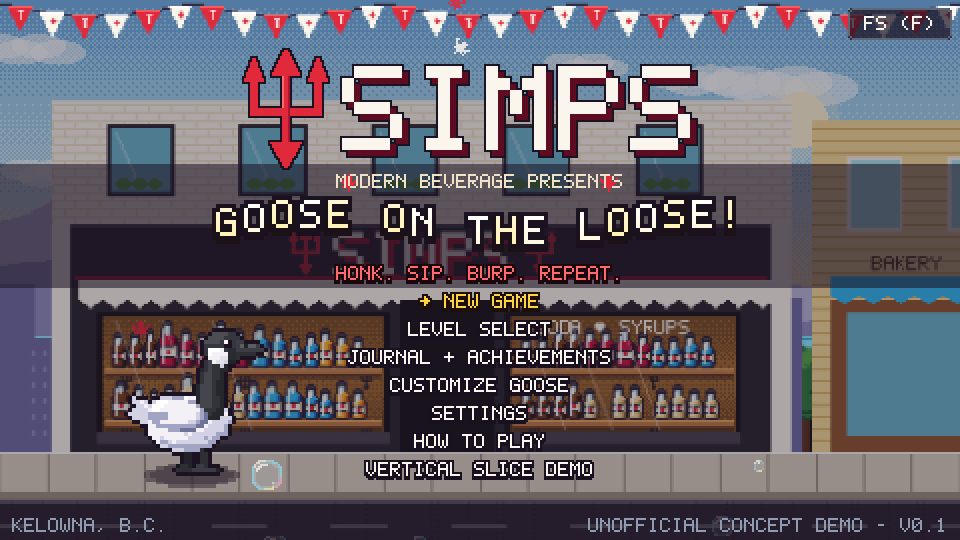
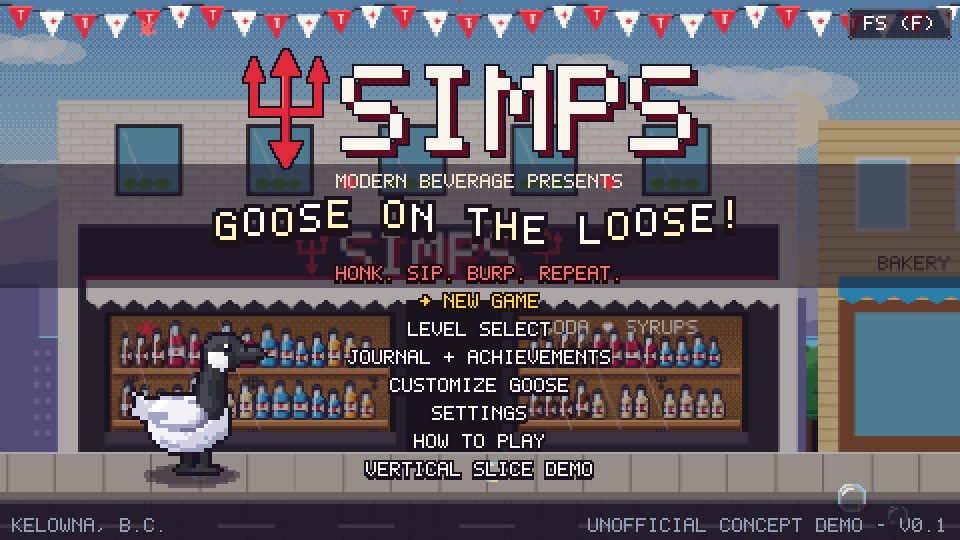
Wide phones: fill edge to edge (up to ~3.2:1), size to Safari's visible area, HUD + buttons pinned to the screen edges
- Width cap raised to 880; game sized from visualViewport so Safari toolbars never hide the HUD
- Screen-fixed skies stay behind the level and stretch to the full width (fixes sky drawn over the waterfront / Soda Dimension on wide phones)
- HUD scene spans the screen: hearts/score left, pause/sound/FS right, d-pad left edge, action buttons right edge

Claude-Session: https://claude.ai/code/session_019Ne5GHyCBQvH5tGTV4PYB6

diff --git a/simps-goose/src/scenes/UIScene.ts b/simps-goose/src/scenes/UIScene.ts
@@ -14,6 +14,7 @@ import { POWERS, PowerId } from '../data/recipes';
 import { BURPS, BurpId } from '../data/coffee';
 import { GS } from '../systems/gamestate';
 import { portraitPad } from '../systems/touchpad';
+import { VIEW } from '../systems/view';
 import { toggleFullscreen } from '../systems/fullscreen';
 
 interface MenuItem { label: () => string; act: (dir: number) => void; t?: Phaser.GameObjects.BitmapText }
@@ -36,7 +37,7 @@ export class UIScene extends Phaser.Scene {
   bossBar: Phaser.GameObjects.Container | null = null; bossFill!: Phaser.GameObjects.Graphics;
   clearCard: Phaser.GameObjects.Container | null = null;
 
-  abil: Phaser.GameObjects.Image[] = [];
+  abil: Phaser.GameObjects.Image[] = []; hudR!: Phaser.GameObjects.Container;
   constructor() { super('UI'); }
   /** Owner abilities row: Power Honk, Double Bubble, Super Burp. */
   setAbilities(o: { ph: boolean; db: boolean; sb: boolean }) { [o.ph, o.db, o.sb].forEach((v, i) => { const a = this.abil[i]; if (a && a.visible !== v) { a.setVisible(v); if (v) this.pulse(a); } }); }
@@ -48,6 +49,8 @@ export class UIScene extends Phaser.Scene {
     this.buildPicker();
     this.touchOn = this.registry.get('touch') === true;
     if (this.touchOn) this.buildTouch();
+    this.applyEdges();
+    const onView = () => this.applyEdges(); this.game.events.on('view:changed', onView); this.events.once('shutdown', () => this.game.events.off('view:changed', onView));
     const ev = this.game.events;
     const on = (n: string, f: (...a: never[]) => void) => { ev.on(n, f, this); this.events.once('shutdown', () => ev.off(n, f, this)); };
     on('hud:reset', ((o: { dropTotal: number; leafTotal?: number; level?: string }) => { this.dropTotal = o.dropTotal; this.leafTotal = o.leafTotal ?? 3; this.resetHud(); if (o.level) this.levelBanner(o.level); }) as never);
@@ -78,6 +81,7 @@ export class UIScene extends Phaser.Scene {
   // ------------------------------------------------------------ HUD
   buildHud() {
     this.hud = this.add.container(0, 0).setDepth(10);
+    this.hudR = this.add.container(0, 0).setDepth(10); // right-edge HUD (pause / sound / fullscreen)
     const g = this.add.graphics();
     g.fillStyle(C.ink, 0.72).fillRoundedRect(4, 4, 150, 20, 4).lineStyle(1, C.red1, 1).strokeRoundedRect(4.5, 4.5, 149, 19, 4);
     this.hud.add(g);
@@ -106,7 +110,7 @@ export class UIScene extends Phaser.Scene {
       const b = this.add.graphics().fillStyle(C.ink, 0.72).fillRoundedRect(452, y, 24, 16, 3).lineStyle(1, C.st3).strokeRoundedRect(452.5, y + 0.5, 23, 15, 3);
       const t = txt(this, 464, y + 3, label, { align: 'center', outline: false, color: C.wht });
       const z = this.add.zone(452, y, 24, 16).setOrigin(0).setInteractive({ useHandCursor: true }).on(ev, (_p: unknown, _x: unknown, _y: unknown, e: Phaser.Types.Input.EventData) => { e.stopPropagation(); f(); });
-      this.hud.add([b, t, z]);
+      this.hudR.add([b, t, z]);
       return t;
     };
     btn(4, 'II', () => this.openPause());
@@ -343,11 +347,19 @@ export class UIScene extends Phaser.Scene {
     for (const [a, label, r] of defs) this.touchBtns.push({ a, label, r, x: 0, y: 0, down: false });
     this.layoutTouch();
   }
+  /** Pin the HUD to the screen edges (wide phones): left block left, right block right. */
+  applyEdges() {
+    const ox = VIEW.ox;
+    this.hud.x = -ox; this.hudR.x = ox; this.slot.x = 424 + ox;
+    this.layoutTouch();
+  }
   layoutTouch() {
     if (!this.touchOn) return;
     const pos: Record<string, [number, number]> = { left: [34, 236], right: [86, 236], jump: [442, 232], honk: [394, 246], ability: [446, 182], interact: [398, 200] };
+    const ox = VIEW.ox; // wide screens: d-pad hugs the left edge, action buttons the right edge
     for (const b of this.touchBtns) {
       [b.x, b.y] = pos[b.a];
+      b.x += b.a === 'left' || b.a === 'right' ? -ox : ox;
       b.g?.destroy();
       b.g = this.add.graphics().setDepth(5);
       const t = txt(this, b.x, b.y - 4, b.label, { align: 'center', outline: false, color: C.wht });

diff --git a/simps-goose/src/systems/view.ts b/simps-goose/src/systems/view.ts
@@ -11,15 +11,19 @@ import Phaser from 'phaser';
 export const BASE_W = 480, BASE_H = 270;
 export const VIEW = { w: BASE_W, ox: 0 };
 
+/** The area the browser really shows (Safari's toolbars excluded). */
+export function visibleSize() { const vv = window.visualViewport; return { w: vv ? vv.width : window.innerWidth, h: vv ? vv.height : window.innerHeight, top: vv ? vv.offsetTop : 0, left: vv ? vv.offsetLeft : 0 }; }
 export function desiredWidth(touch: boolean): number {
-  const W = window.innerWidth, H = window.innerHeight;
+  const { w: W, h: H } = visibleSize();
   if (!touch || H >= W) return BASE_W;
-  return Math.max(BASE_W, Math.min(640, Math.round((BASE_H * W) / H)));
+  return Math.max(BASE_W, Math.min(880, Math.round((BASE_H * W) / H)));
 }
 function setW(w: number) { VIEW.w = w; VIEW.ox = Math.round((w - BASE_W) / 2); }
 
 /** Non-gameplay scenes (menus, cutscenes, overlays): keep their 480-wide layout, centred. */
 export function fitFixed(scene: Phaser.Scene) {
+  // the HUD scene spans the whole screen (its layout stays centred) so it can pin items to the edges
+  if (scene.sys.settings.key === 'UI') { scene.cameras.main.setViewport(0, 0, VIEW.w, BASE_H).setScroll(-VIEW.ox, 0); return; }
   for (const cam of scene.cameras.cameras) cam.setViewport(VIEW.ox, 0, BASE_W, BASE_H);
 }
 
@@ -29,6 +33,12 @@ export function fitLevel(scene: ViewLevel) {
   const main = scene.cameras.main;
   const vw = Math.min(VIEW.w, Math.max(BASE_W, scene.worldW || BASE_W));
   main.setViewport(Math.round((VIEW.w - vw) / 2), 0, vw, BASE_H);
+  // screen-fixed backdrops (skies, distant hills) were drawn 480 wide: stretch them to the view
+  for (const o of scene.children.list as (Phaser.GameObjects.GameObject & { scrollFactorX?: number; depth?: number; width?: number; displayHeight?: number })[]) {
+    if (o.scrollFactorX !== 0 || (o.depth ?? 0) >= 80) continue;
+    if (o instanceof Phaser.GameObjects.TileSprite && o.width >= 470 && o.width <= 490 + 400) o.setSize(vw, o.height);
+    else if (o instanceof Phaser.GameObjects.Image && o.width >= 470 && o.width <= 490) o.setDisplaySize(vw, o.displayHeight);
+  }
   if (!scene.uiCam) { scene.uiCam = scene.cameras.add(VIEW.ox, 0, BASE_W, BASE_H, false, 'ui'); scene.uiCam.setRoundPixels(true); }
   scene.uiCam.setViewport(VIEW.ox, 0, BASE_W, BASE_H);
 }
@@ -37,7 +47,9 @@ export function routeCameras(scene: ViewLevel) {
   const ui = scene.uiCam; if (!ui) return;
   const mainId = scene.cameras.main.id, uiId = ui.id;
   for (const o of scene.children.list as (Phaser.GameObjects.GameObject & { scrollFactorX?: number; cameraFilter: number })[]) {
-    o.cameraFilter = o.scrollFactorX === 0 ? mainId : uiId;
+    // HUD-like overlays (screen-fixed AND drawn on top) → centred UI camera; everything else, incl. sky backdrops → world camera
+    const isUi = o.scrollFactorX === 0 && ((o as unknown as { depth?: number }).depth ?? 0) >= 80;
+    o.cameraFilter = isUi ? mainId : uiId;
   }
 }
 
@@ -52,6 +64,7 @@ export function installView(game: Phaser.Game, isTouch: () => boolean, isLevel: 
     setW(w);
     game.scale.setGameSize(w, BASE_H);
     for (const s of game.scene.getScenes(false)) if (s.sys.settings.status >= Phaser.Scenes.CREATING) apply(s);
+    game.events.emit('view:changed');
   };
   window.addEventListener('resize', () => setTimeout(check, 60));
   window.addEventListener('orientationchange', () => setTimeout(check, 300));

diff --git a/simps-goose/src/systems/touchpad.ts b/simps-goose/src/systems/touchpad.ts
@@ -9,6 +9,7 @@
  */
 import { Controls, Action } from './input';
 import { toggleFullscreen } from './fullscreen';
+import { visibleSize } from './view';
 
 const BUTTONS: { a: Action[]; label: string; cls: string }[] = [
   { a: ['up'], label: '▲', cls: 'up' }, { a: ['left'], label: '◀', cls: 'left' }, { a: ['right'], label: '▶', cls: 'right' }, { a: ['down'], label: '▼', cls: 'down' },
@@ -102,10 +103,17 @@ export function installTouchpad(isTouch: () => boolean) {
     document.body.classList.toggle('ask-rotate', portrait && touch && !rotateDismissed);
     if (!portrait) rotateDismissed = true; // once they've turned it, never nag again this session
     document.body.style.setProperty('--bar', side ? bar + 'px' : '0px');
+    // landscape: pin the game to the area Safari actually shows (its toolbars can sit over a 100%-height page)
+    const gameEl = document.getElementById('game');
+    if (gameEl) {
+      if (!portrait) { const v = visibleSize(); gameEl.style.top = v.top + 'px'; gameEl.style.height = v.h + 'px'; gameEl.style.bottom = 'auto'; }
+      else { gameEl.style.top = ''; gameEl.style.height = ''; gameEl.style.bottom = ''; }
+    }
     place(side ? 'side' : 'pad');
     window.dispatchEvent(new Event('resize-game'));
   };
   window.addEventListener('resize', update); window.addEventListener('orientationchange', update);
+  window.visualViewport?.addEventListener('resize', update); window.visualViewport?.addEventListener('scroll', update);
   update();
   setInterval(update, 1000);
 }
